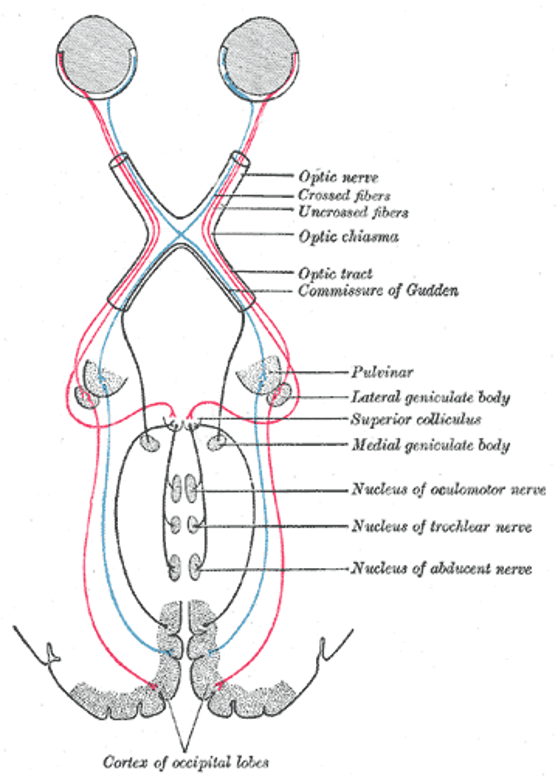
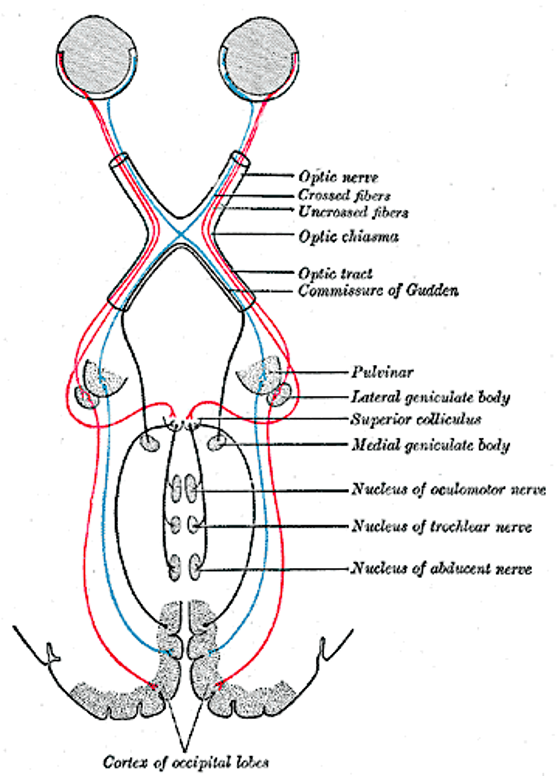
update

diff --git a/vision.md b/vision.md
@@ -1,7 +1,7 @@
 # VISION
 
 % Visual Brain
-:::{figure} ./images/vision_start.jpg
+:::{figure} ./images/vision_start.png
 :label: fig:visual brain
 :width: 55%
 
